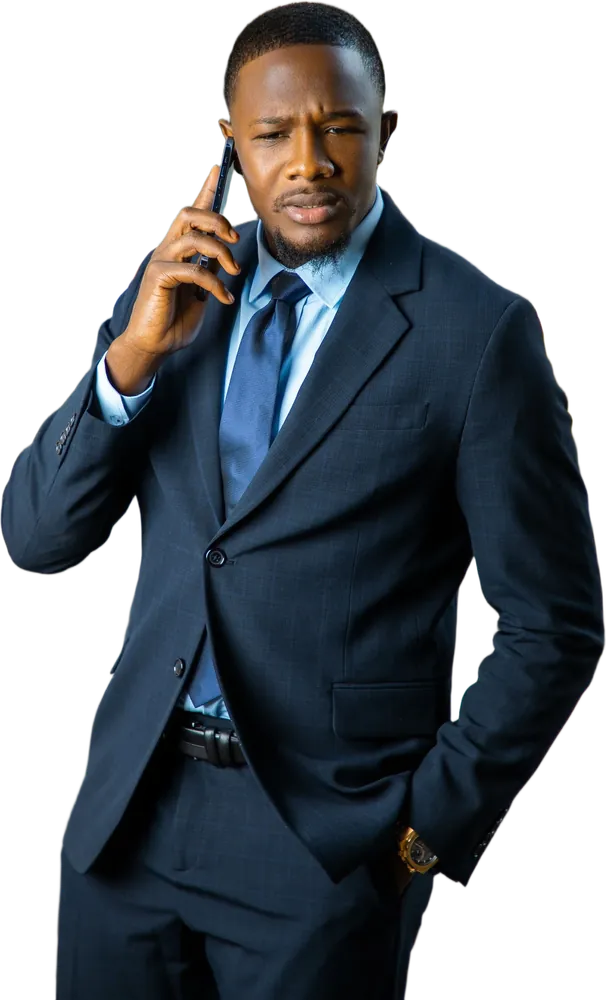
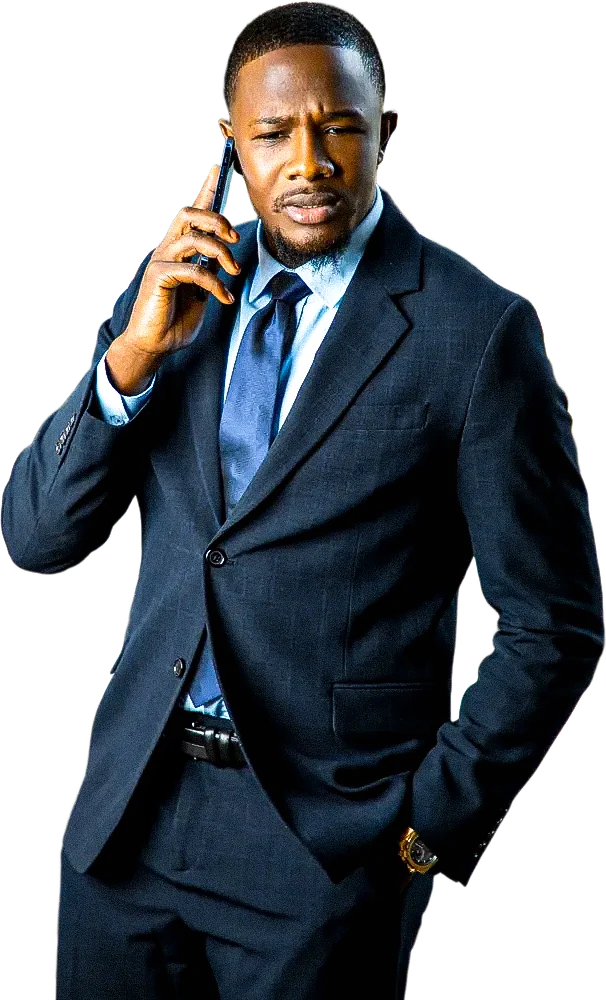
feat(images): intègre les retouches de l'ingénieure et de l'acheteur
Les retouches faites à la main sont gardées dans site/images/retouchees
et prennent le pas sur le détourage automatique.

diff --git a/outils/preparer_images.py b/outils/preparer_images.py
@@ -11,6 +11,8 @@ RACINE = os.path.dirname(ICI)
 SOURCE = os.path.join(RACINE, "..", "site", "images")
 FONDS = os.path.join(RACINE, "assets", "img", "fonds")
 CALQUES = os.path.join(RACINE, "assets", "img", "calques")
+# Retouches faites à la main : si <nom>.webp existe ici, il remplace le détourage automatique.
+RETOUCHEES = os.path.join(SOURCE, "retouchees")
 
 # nom publié : (fichier source, recadrage optionnel en fractions gauche, haut, droite, bas)
 PHOTOS = {
@@ -60,7 +62,9 @@ def main():
                 copie = copie.resize((largeur, round(copie.height * largeur / copie.width)), Image.LANCZOS)
             copie.save(os.path.join(FONDS, f"{nom}-{largeur}.webp"), "WEBP", quality=70, method=6)
     for nom, (fichier, cote) in DETOURAGES.items():
-        im = Image.open(os.path.join(SOURCE, "detourees", fichier)).convert("RGBA")
+        retouche = os.path.join(RETOUCHEES, f"{nom}.webp")
+        source = retouche if os.path.exists(retouche) else os.path.join(SOURCE, "detourees", fichier)
+        im = Image.open(source).convert("RGBA")
         im.thumbnail((cote, cote), Image.LANCZOS)
         im.save(os.path.join(CALQUES, f"{nom}.webp"), "WEBP", quality=80, method=6)
     for dossier in (FONDS, CALQUES):
